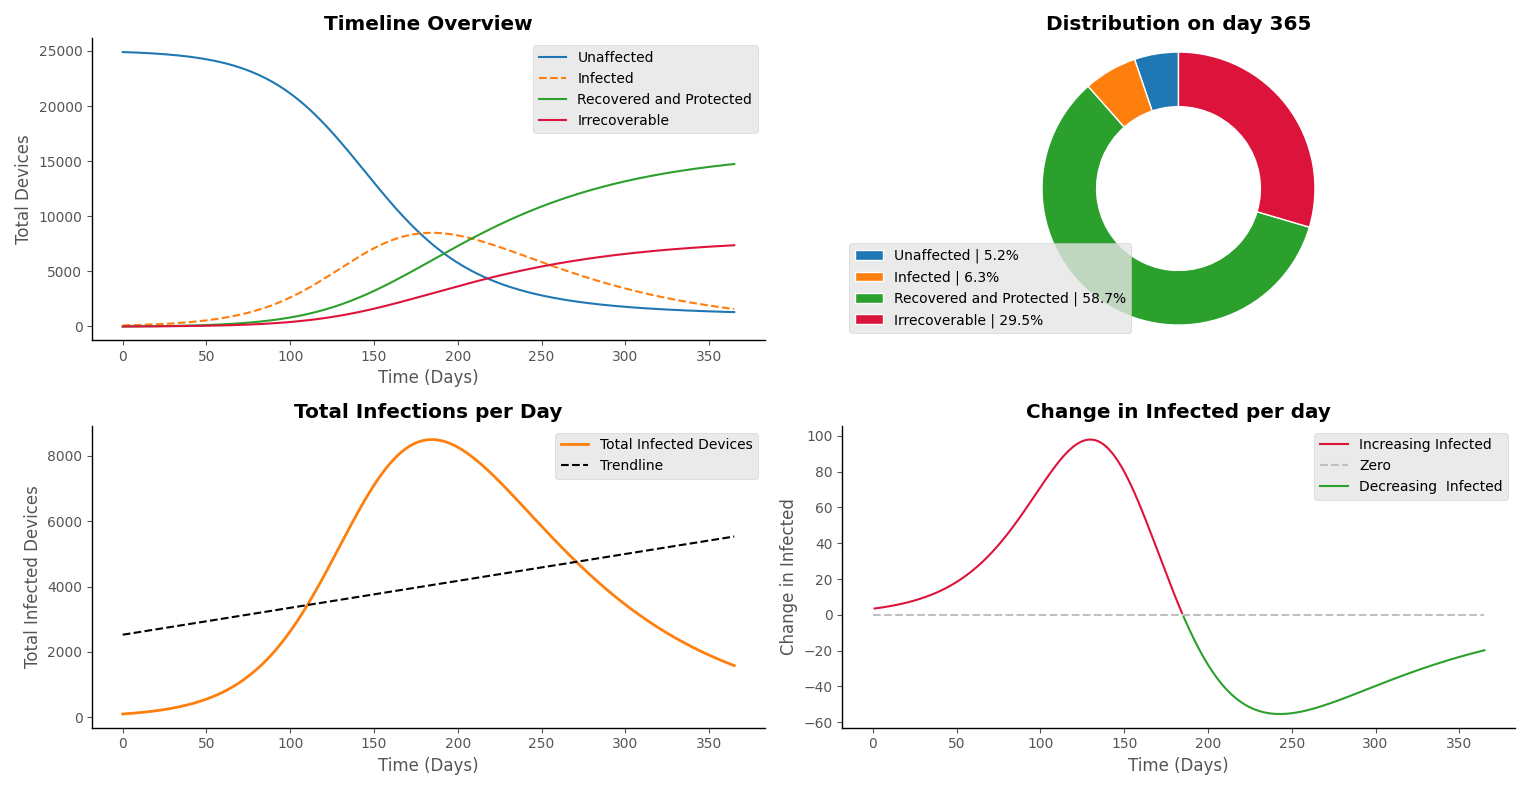
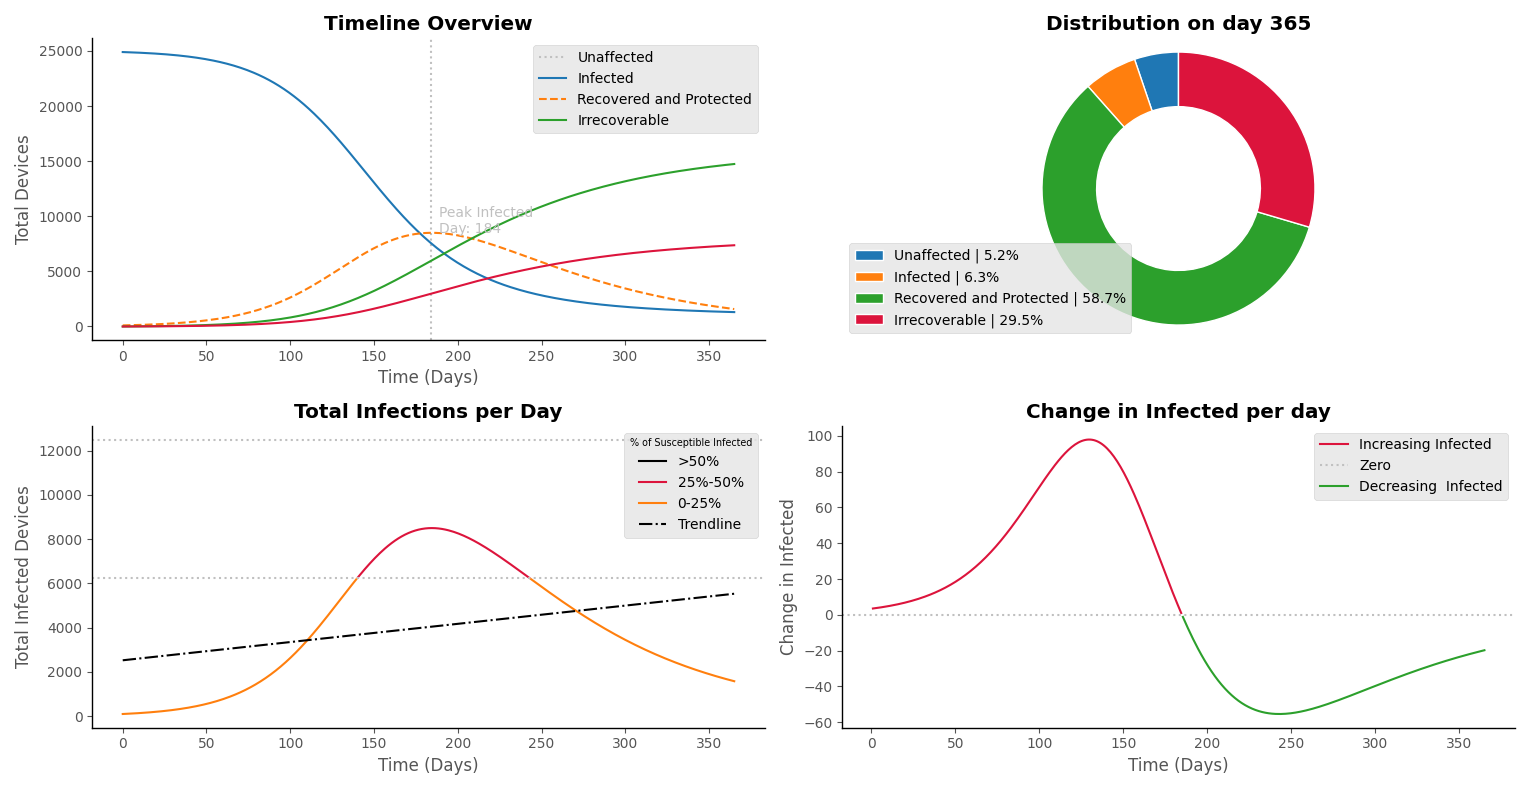
Argmax labels

diff --git a/Virus Spread Simulation/models.py b/Virus Spread Simulation/models.py
@@ -5,7 +5,7 @@ import random
 
 #Style sheet
 plt.style.use('ggplot')
-
+plt.rcParams['legend.title_fontsize'] = 'x-small'
 
 def SIR(sbx_healthy, sbx_infected, sbx_days, sbx_propagation, sbx_r_chance,chbx_firewall,chbx_disconnected):
     #Starting Susceptible
@@ -74,7 +74,9 @@ def SIR(sbx_healthy, sbx_infected, sbx_days, sbx_propagation, sbx_r_chance,chbx_
         axs[0, 0].plot(t, I, linestyle='--', label='Infected', color='tab:orange')
         axs[0, 0].plot(t, R, label='Recovered & Protected', color='tab:green')
 
-        #np.savetxt("foo.csv", I)
+        axs[0, 0].axvline(I.argmax(axis=0), linestyle=':', color='silver')
+
+        axs[0, 0].text(I.argmax(axis=0) + 5, np.amax(I)+10, 'Peak Infected\nDay: {}'.format(I.argmax(axis=0)), color='silver')
 
         legend = axs[0, 0].legend()
         legend.get_frame().set_alpha(0.5)
@@ -123,13 +125,10 @@ def SIR(sbx_healthy, sbx_infected, sbx_days, sbx_propagation, sbx_r_chance,chbx_
 
         Iupper = np.ma.masked_where(IDiff < upper, IDiff)
 
-
         Ilower = np.ma.masked_where(IDiff > lower, IDiff)
 
         axs[1, 1].plot(np.delete(t, 0), Iupper, color='crimson')
-
-        axs[1, 1].plot(t, 0 * t, linestyle='--',color='silver')
-
+        axs[1, 1].axhline(0, linestyle=':', color='silver')
         axs[1, 1].plot(np.delete(t, 0), Ilower, color='tab:green')
 
         axs[1, 1].legend(['Increasing Infected','Zero','Decreasing  Infected'], loc='best',
@@ -156,20 +155,31 @@ def SIR(sbx_healthy, sbx_infected, sbx_days, sbx_propagation, sbx_r_chance,chbx_
         plt.setp(axs[1, 0], xlabel="Time (Days)")
         plt.setp(axs[1, 0], ylabel="Total Infected Devices")
 
+        upper = N0/2
+        lower = N0/4
 
-        axs[1, 0].plot(t, I,linewidth=2.0, color='tab:orange')
+        Iupper = np.ma.masked_where(I < upper, I)
+        Ilower = np.ma.masked_where(I > lower, I)
+        Imiddle = np.ma.masked_where((I < lower) | (I > upper), I)
 
+        axs[1, 0].plot(t, Iupper, color='black')
+        axs[1, 0].plot(t,Imiddle, color='crimson')
+        axs[1, 0].plot(t, Ilower, color='tab:orange')
 
         z = np.polyfit(t, I, 1)
         p = np.poly1d(z)
-        axs[1, 0].plot(t, p(t), color='black',linestyle='--')
+        axs[1, 0].plot(t, p(t), color='black',linestyle='-.')
 
-
-        axs[1, 0].legend(['Total Infected Devices','Trendline'], loc='best',
-                         ncol=1, fancybox=True)
+        axs[1, 0].legend(['>50%','25%-50%','0-25%','Trendline'], loc='best',
+                         ncol=1, fancybox=True,title='% of Susceptible Infected')
 
         axs[1, 0].spines['bottom'].set_color('black')
         axs[1, 0].spines['left'].set_color('black')
+
+
+        axs[1, 0].axhline(N0 / 2, linestyle=':', color='silver')
+        axs[1, 0].axhline(N0 / 4, linestyle=':', color='silver')
+
 
         for spine in ('top', 'right'):
             axs[1, 0].spines[spine].set_visible(False)
@@ -179,7 +189,6 @@ def SIR(sbx_healthy, sbx_infected, sbx_days, sbx_propagation, sbx_r_chance,chbx_
 
     # --------------------------------------------------------------------------------------------------------------------
 
-    #plt.subplots_adjust(left=0.06, bottom=0.055, right=0.98, top=0.97, wspace=0.2, hspace=0.2)
     plt.tight_layout()
     plt.savefig("fig_temp.png",transparent=True)
 
@@ -252,6 +261,9 @@ def SIRD(sbx_healthy, sbx_infected, sbx_days, sbx_propagation, sbx_r_chance,sbx_
         plt.setp(axs[0, 0], ylabel="Total Devices")
         axs[0, 0].grid()
 
+        axs[0, 0].axvline(I.argmax(axis=0), linestyle=':', color='silver')
+        axs[0, 0].text(I.argmax(axis=0) + 5, np.amax(I) + 10, 'Peak Infected\nDay: {}'.format(I.argmax(axis=0)),color='silver')
+
         axs[0, 0].plot(t, S, label='Unaffected', color='tab:blue')
         axs[0, 0].plot(t, I, linestyle='--', label='Infected', color='tab:orange')
         axs[0, 0].plot(t, R, label='Recovered & protected', color='tab:green')
@@ -307,7 +319,7 @@ def SIRD(sbx_healthy, sbx_infected, sbx_days, sbx_propagation, sbx_r_chance,sbx_
 
         axs[1, 1].plot(np.delete(t, 0), Iupper, color='crimson')
 
-        axs[1, 1].plot(t, 0 * t, linestyle='--', color='silver')
+        axs[1, 1].axhline(0, linestyle=':', color='silver')
 
         axs[1, 1].plot(np.delete(t, 0), Ilower, color='tab:green')
 
@@ -337,20 +349,34 @@ def SIRD(sbx_healthy, sbx_infected, sbx_days, sbx_propagation, sbx_r_chance,sbx_
         plt.setp(axs[1, 0], xlabel="Time (Days)")
         plt.setp(axs[1, 0], ylabel="Total Infected Devices")
 
+        upper = N0/2
+        lower = N0/4
 
-        axs[1, 0].plot(t, I,linewidth=2.0, color='tab:orange')
 
+        Iupper = np.ma.masked_where(I < upper, I)
+        Ilower = np.ma.masked_where(I > lower, I)
+        Imiddle = np.ma.masked_where((I < lower) | (I > upper), I)
+
+        axs[1, 0].plot(t, Iupper, color='black')
+        axs[1, 0].plot(t,Imiddle, color='crimson')
+        axs[1, 0].plot(t, Ilower, color='tab:orange')
 
         z = np.polyfit(t, I, 1)
         p = np.poly1d(z)
-        axs[1, 0].plot(t, p(t), color='black',linestyle='--')
+        axs[1, 0].plot(t, p(t), color='black',linestyle='-.')
 
-
-        axs[1, 0].legend(['Total Infected Devices','Trendline'], loc='best',
-                         ncol=1, fancybox=True)
+        axs[1, 0].legend(['>50%','25%-50%','0-25%','Trendline'], loc='best',
+                         ncol=1, fancybox=True,title='% of Susceptible Infected')
 
         axs[1, 0].spines['bottom'].set_color('black')
         axs[1, 0].spines['left'].set_color('black')
+
+        #axs[1, 0].plot(t, N0 / 2, linestyle='--', color='silver')
+        #axs[1, 0].plot(t, N0 / 4, linestyle='--', color='silver')
+
+        axs[1, 0].axhline(N0 / 2, linestyle=':', color='silver')
+        axs[1, 0].axhline(N0 / 4, linestyle=':', color='silver')
+
 
         for spine in ('top', 'right'):
             axs[1, 0].spines[spine].set_visible(False)
@@ -428,6 +454,10 @@ def SIS(sbx_healthy, sbx_infected, sbx_days, sbx_propagation, sbx_r_chance,chbx_
         axs[0, 0].spines['bottom'].set_color('black')
         axs[0, 0].spines['left'].set_color('black')
 
+        axs[0, 0].axvline(I.argmax(axis=0), linestyle=':', color='silver')
+        axs[0, 0].text(I.argmax(axis=0) + 5, np.amax(I) + 10, 'Peak Infected\nDay: {}'.format(I.argmax(axis=0)),color='silver')
+
+
         for spine in ('top', 'right'):
             axs[0, 0].spines[spine].set_visible(False)
 
@@ -474,7 +504,7 @@ def SIS(sbx_healthy, sbx_infected, sbx_days, sbx_propagation, sbx_r_chance,chbx_
 
         axs[1, 1].plot(np.delete(t, 0), Iupper, color='crimson')
 
-        axs[1, 1].plot(t, 0 * t, linestyle='-', color='silver')
+        axs[1, 1].axhline(0, linestyle=':', color='silver')
 
         axs[1, 1].plot(np.delete(t, 0), Ilower, color='tab:green')
 
@@ -501,20 +531,33 @@ def SIS(sbx_healthy, sbx_infected, sbx_days, sbx_propagation, sbx_r_chance,chbx_
         plt.setp(axs[1, 0], xlabel="Time (Days)")
         plt.setp(axs[1, 0], ylabel="Total Infected Devices")
 
+        upper = N0/2
+        lower = N0/4
 
-        axs[1, 0].plot(t, I,linewidth=2.0, color='tab:orange')
+        Iupper = np.ma.masked_where(I < upper, I)
+        Ilower = np.ma.masked_where(I > lower, I)
+        Imiddle = np.ma.masked_where((I < lower) | (I > upper), I)
 
+        axs[1, 0].plot(t, Iupper, color='black')
+        axs[1, 0].plot(t,Imiddle, color='crimson')
+        axs[1, 0].plot(t, Ilower, color='tab:orange')
 
         z = np.polyfit(t, I, 1)
         p = np.poly1d(z)
-        axs[1, 0].plot(t, p(t), color='black',linestyle='--')
+        axs[1, 0].plot(t, p(t), color='black',linestyle='-.')
 
-
-        axs[1, 0].legend(['Total Infected Devices','Trendline'], loc='best',
-                         ncol=1, fancybox=True)
+        axs[1, 0].legend(['>50%','25%-50%','0-25%','Trendline'], loc='best',
+                         ncol=1, fancybox=True,title='% of Susceptible Infected')
 
         axs[1, 0].spines['bottom'].set_color('black')
         axs[1, 0].spines['left'].set_color('black')
+
+        #axs[1, 0].plot(t, N0 / 2, linestyle='--', color='silver')
+        #axs[1, 0].plot(t, N0 / 4, linestyle='--', color='silver')
+
+        axs[1, 0].axhline(N0 / 2, linestyle=':', color='silver')
+        axs[1, 0].axhline(N0 / 4, linestyle=':', color='silver')
+
 
         for spine in ('top', 'right'):
             axs[1, 0].spines[spine].set_visible(False)
@@ -650,7 +693,9 @@ def SEIR(sbx_healthy, sbx_infected, sbx_days, sbx_hibernation, sbx_propagation, 
         plt.setp(axs[1, 0], ylabel="Total Infected Devices")
 
 
+
         axs[1, 0].plot(t, I,linewidth=2.0, color='tab:orange')
+
 
 
         z = np.polyfit(t, I, 1)
